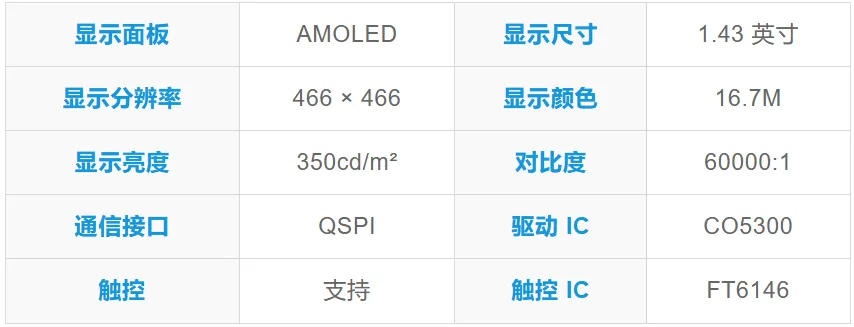
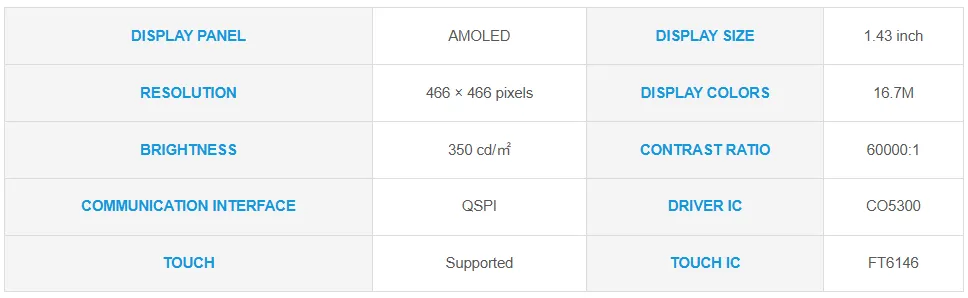
chore : Image replacement & Format Update

diff --git a/docs/ESP32/ESP32-C6/ESP32-C6-Touch-AMOLED-1.43/Product-Overview.md b/docs/ESP32/ESP32-C6/ESP32-C6-Touch-AMOLED-1.43/Product-Overview.md
@@ -23,7 +23,7 @@ import TabItem from '@theme/TabItem';
   </TabItem>
 </Tabs>
 
-This product is a high-performance, highly integrated microcontroller development board designed by Waveshare, with an external high-capacity Flash. It features a 1.43inch HD AMOLED display, highly integrated RTC, IMU, TF card slot, low-power audio codec chip, dual MIC circuit, and lithium battery charging and discharging peripherals. It also reserves USB, UART, I2C, and GPIO interfaces, providing flexible expandability for development and easy integration into products.
+This product is a high-performance, highly integrated microcontroller development board designed by Waveshare, with onboard high-capacity Flash memory. It features a 1.43inch HD AMOLED display, highly integrated RTC, IMU, TF card slot, low-power audio codec chip, dual MIC circuit, and lithium battery charging and discharging peripherals. It also reserves USB, UART, I2C, and GPIO interfaces, providing flexible expandability for development and easy integration into products.
 
 | SKU | Product |
 | ------ |   ------------------ |
@@ -40,12 +40,12 @@ This product is a high-performance, highly integrated microcontroller developmen
 - Equipped with dual digital microphone arrays, supporting advanced voice interaction functions, suitable for precise speech recognition and near-field/far-field voice wake-up applications
 - Onboard QMI8658 six-axis inertial measurement unit (3-axis accelerometer, 3-axis gyroscope) for motion posture detection, step counting, etc.
 - Onboard PCF85063 RTC chip for convenient RTC functionality implementation
-- Onboard two side buttons, PWR and BOOT, with customizable functions for convenient custom button operation development
+- Onboard two side buttons, PWR and BOOT, with customizable functions for user-defined operations
 - Onboard 3.7V MX1.25 lithium battery charge/discharge interface
 - Onboard TF card slot for flexible storage expansion and fast data transfer, suitable for data logging and media playback, simplifying circuit design
 - Exposed UART and I2C SH1.0 4PIN interfaces, with reserved 2 × 4PIN 2.54mm pitch headers
 - AMOLED screen offers higher contrast, wider viewing angles, rich colors, and fast response times for superior visual effects, along with advantages such as slim design, low power consumption, and flexibility
-- Optional CNC-machined enclosure with elegant design, clearly labeled interface descriptions, overall aesthetic appeal, and portability
+- Optional precision CNC-machined case with a sleek design, clearly labeled ports, making the unit both attractive and portable
 
 ## Onboard Resources
 
@@ -70,7 +70,7 @@ This product is a high-performance, highly integrated microcontroller developmen
 15. **ES8311 DAC Audio Codec** High-performance, low-power audio digital-to-analog converter  
 16. **QMI8658** 3-axis accelerometer + 3-axis gyroscope for posture sensing, motion recognition, etc  
 17. **TCA9554PWR** 8-bit I2C GPIO expander chip  
-18. **TF Card Slot ** Supports FAT32-formatted TF card for data expansion
+18. **TF Card Slot** Supports FAT32-formatted TF card for data expansion
 
 ## Interfaces
 
@@ -94,7 +94,7 @@ This product is a high-performance, highly integrated microcontroller developmen
 
 ### AMOLED Display Specifications
 
-<div style={{maxWidth:600}}> 
+<div style={{maxWidth:800}}> 
 ![AMOLED Screen Parameters](./images/ESP32-C6-Touch-AMOLED-1.43-ScreenParameters.webp)
 </div>
 
@@ -102,7 +102,7 @@ This product is a high-performance, highly integrated microcontroller developmen
 
 The ESP32-C6-Touch-AMOLED-1.43 supports two development frameworks: Arduino IDE and ESP-IDF, providing flexibility for developers to choose the tool that best fits their project requirements and personal preference.
 
-Each method has its advantages, and developers can select based on their needs and skill level. Arduino is simple to learn and easy to get started with, suitable for beginners and non-professionals; ESP-IDF provides more advanced development tools and stronger control capabilities, suitable for developers with professional backgrounds or those with higher performance requirements, and is more suitable for complex project development.
+Each method has its advantages, and developers can choose based on their needs and skill level. Arduino is simple to learn and easy to get started with, suitable for beginners and non-professionals; ESP-IDF provides more advanced development tools and stronger control capabilities, suitable for developers with professional backgrounds or those with higher performance requirements, and is more suitable for complex project development.
 
 - **Arduino IDE** is a convenient, flexible, and easy-to-use open-source electronics prototyping platform. It requires minimal foundational knowledge, allowing for rapid development after a short learning period. Arduino has a vast global community that provides a wealth of open-source code, project examples, tutorials, and rich libraries that encapsulate complex functionalities, enabling developers to implement various features quickly. You can refer to the **[Working with Arduino](./Arduino.md)** to complete the initial setup, and the tutorial also provides related demos for reference.
 
